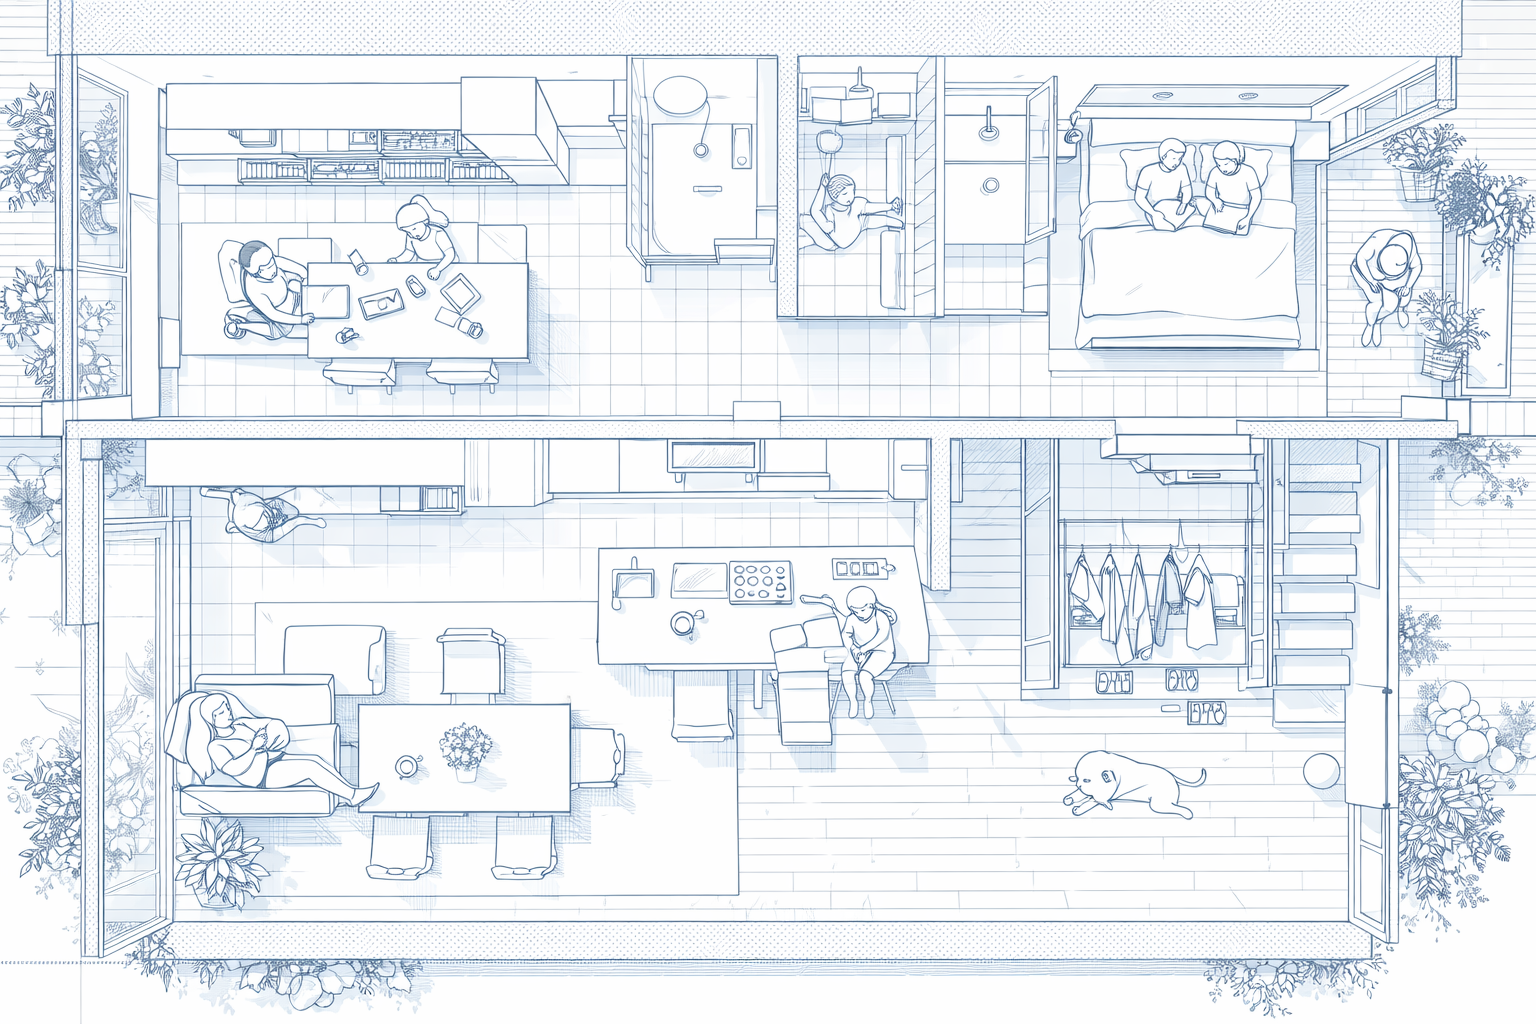
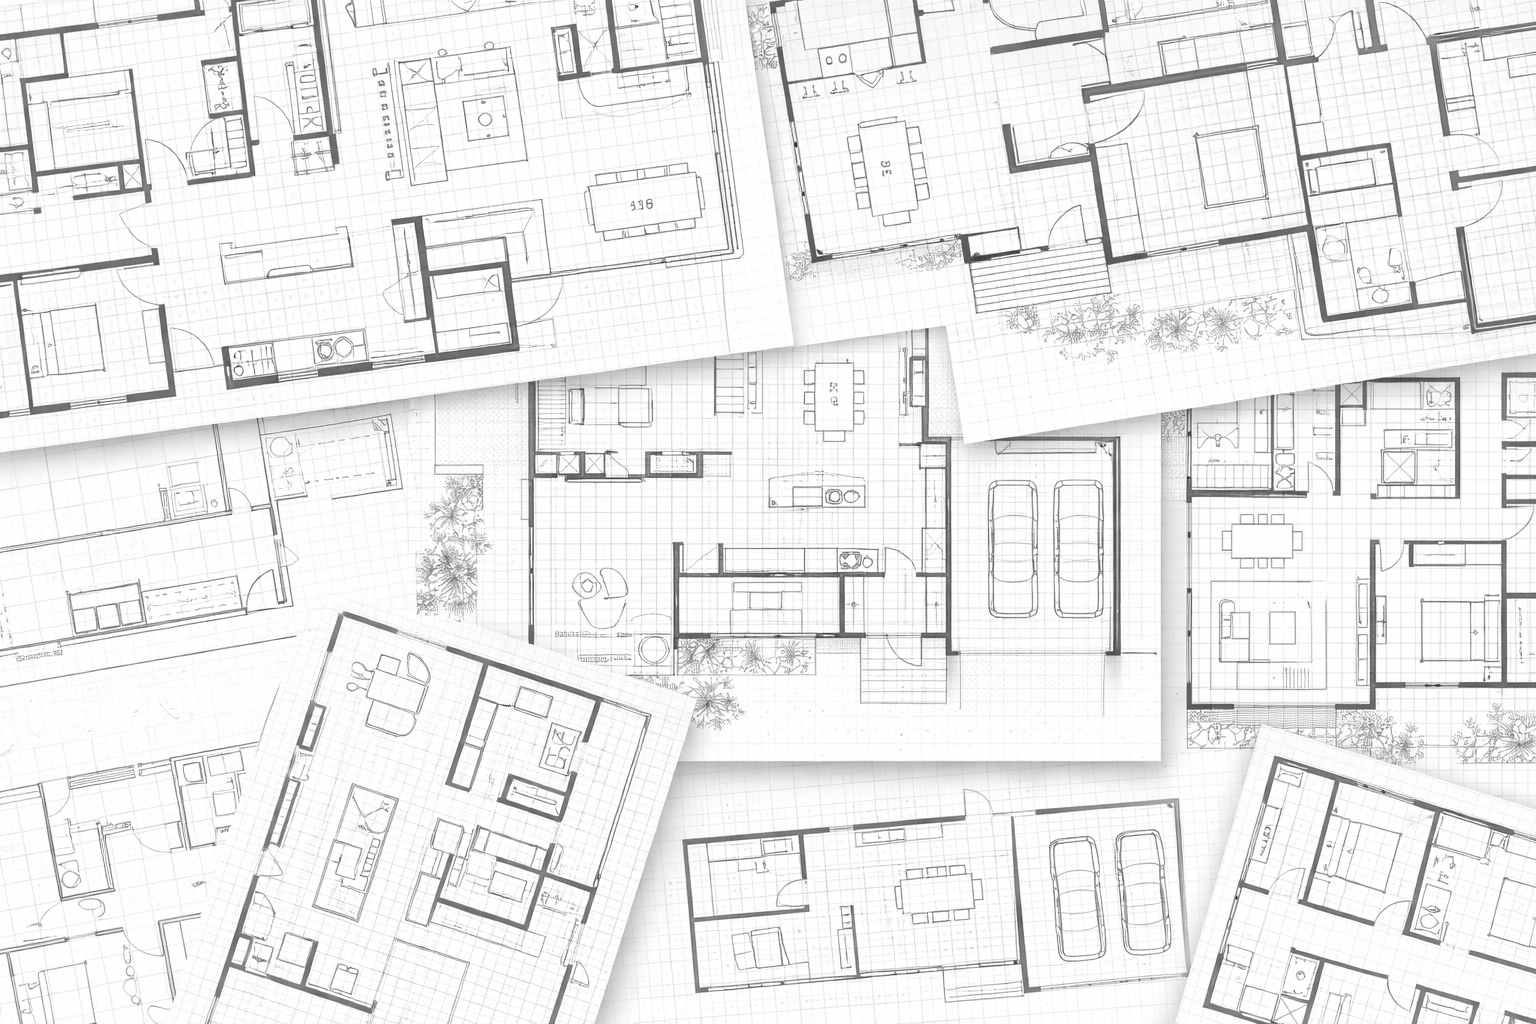
new typography and color palette

diff --git a/src/styles/base.css b/src/styles/base.css
@@ -1,10 +1,141 @@
+@import url("https://fonts.googleapis.com/css2?family=Montserrat:wght@400;500;600;700;800&display=swap");
 @import "tailwindcss";
-@import "@fontsource/inter/index.css";
 
 @theme {
-  --font-sans: "Inter", "Inter Variable", system-ui, -apple-system, BlinkMacSystemFont, "Segoe UI", sans-serif;
+  --font-sans: "Montserrat", system-ui, -apple-system, BlinkMacSystemFont, "Segoe UI", sans-serif;
+
+  /* Baltic Blue */
+  --color-baltic-blue-50: #ecf3f9;
+  --color-baltic-blue-100: #d9e7f2;
+  --color-baltic-blue-200: #b3cfe6;
+  --color-baltic-blue-300: #8cb6d9;
+  --color-baltic-blue-400: #669ecc;
+  --color-baltic-blue-500: #4086bf;
+  --color-baltic-blue-600: #336b99;
+  --color-baltic-blue-700: #265073;
+  --color-baltic-blue-800: #19364d;
+  --color-baltic-blue-900: #0d1b26;
+  --color-baltic-blue-950: #09131b;
+
+  /* Silver */
+  --color-silver-50: #f3f3f2;
+  --color-silver-100: #e6e6e5;
+  --color-silver-200: #cdcdcb;
+  --color-silver-300: #b4b4b1;
+  --color-silver-400: #9b9b97;
+  --color-silver-500: #82827d;
+  --color-silver-600: #686864;
+  --color-silver-700: #4e4e4b;
+  --color-silver-800: #343432;
+  --color-silver-900: #1a1a19;
+  --color-silver-950: #121211;
+
+  /* Charcoal Brown */
+  --color-charcoal-brown-50: #f1f4f0;
+  --color-charcoal-brown-100: #e3e9e2;
+  --color-charcoal-brown-200: #c7d4c4;
+  --color-charcoal-brown-300: #abbea7;
+  --color-charcoal-brown-400: #8fa88a;
+  --color-charcoal-brown-500: #73936c;
+  --color-charcoal-brown-600: #5c7557;
+  --color-charcoal-brown-700: #455841;
+  --color-charcoal-brown-800: #2e3b2b;
+  --color-charcoal-brown-900: #171d16;
+  --color-charcoal-brown-950: #10150f;
+
+  /* Deep Space Blue */
+  --color-deep-space-blue-50: #eef2f6;
+  --color-deep-space-blue-100: #dde6ee;
+  --color-deep-space-blue-200: #bbccdd;
+  --color-deep-space-blue-300: #99b2cc;
+  --color-deep-space-blue-400: #7799bb;
+  --color-deep-space-blue-500: #557faa;
+  --color-deep-space-blue-600: #446688;
+  --color-deep-space-blue-700: #334c66;
+  --color-deep-space-blue-800: #223344;
+  --color-deep-space-blue-900: #111922;
+  --color-deep-space-blue-950: #0c1218;
+
+  /* Grey Olive */
+  --color-grey-olive-50: #f4f3f1;
+  --color-grey-olive-100: #e8e6e3;
+  --color-grey-olive-200: #d2cdc6;
+  --color-grey-olive-300: #bbb4aa;
+  --color-grey-olive-400: #a49b8e;
+  --color-grey-olive-500: #8e8271;
+  --color-grey-olive-600: #71685b;
+  --color-grey-olive-700: #554e44;
+  --color-grey-olive-800: #39342d;
+  --color-grey-olive-900: #1c1a17;
+  --color-grey-olive-950: #141210;
+
+  /* Primary selection */
+  --color-primary: var(--color-charcoal-brown-600);
+  --color-primary-foreground: #ffffff;
 }
 
 :root {
   font-family: var(--font-sans);
+}
+
+html {
+  scroll-behavior: smooth;
+}
+
+@keyframes slide-in-left {
+  from {
+    opacity: 0;
+    transform: translateX(-32px);
+  }
+  to {
+    opacity: 1;
+    transform: translateX(0);
+  }
+}
+
+.animate-slide-in-left {
+  animation: slide-in-left 0.6s ease-out forwards;
+}
+
+@keyframes shimmer-border {
+  0% {
+    background-position: 0 0, 0 0;
+  }
+  100% {
+    background-position: 0 0, 200% 0;
+  }
+}
+
+.shimmer-border {
+  position: relative;
+  border: 2px solid transparent;
+  background-image:
+    linear-gradient(#ffffff, #ffffff),
+    linear-gradient(120deg, var(--color-baltic-blue-50), var(--color-baltic-blue-500), #ffffff);
+  background-origin: padding-box, border-box;
+  background-clip: padding-box, border-box;
+  background-size: auto, 200% 200%;
+  transition: box-shadow 0.3s ease;
+}
+
+.shimmer-border:hover {
+  animation: shimmer-border 1.2s linear infinite;
+  box-shadow: 0 6px 20px rgba(0, 0, 0, 0.12);
+}
+
+.shimmer-border-white {
+  position: relative;
+  border: 2px solid transparent;
+  background-image:
+    linear-gradient(var(--color-charcoal-brown-600), var(--color-charcoal-brown-600)),
+    linear-gradient(120deg, #ffffff, var(--color-charcoal-brown-200), #ffffff);
+  background-origin: padding-box, border-box;
+  background-clip: padding-box, border-box;
+  background-size: auto, 200% 200%;
+  transition: box-shadow 0.3s ease;
+}
+
+.shimmer-border-white:hover {
+  animation: shimmer-border 1.2s linear infinite;
+  box-shadow: 0 10px 24px rgba(0, 0, 0, 0.2);
 }

diff --git a/src/components/subcomponents/HeroSection.tsx b/src/components/subcomponents/HeroSection.tsx
@@ -1,47 +1,72 @@
 import { Button } from "antd";
+import heroBg from "../../img/SSDAY.jpeg";
 
 export default function HeroSection() {
   return (
-    <section className="w-full bg-slate-300 rounded-b-[2rem] px-4 pt-20 pb-24">
-      <div className="mx-auto max-w-6xl flex flex-col items-center text-center gap-10">
+    <section
+      className="
+        relative w-full rounded-b-[2rem] px-4 pt-36 pb-36
+        bg-cover bg-center text-black
+        flex flex-col items-center justify-center
+        min-h-[80vh]
+      "
+      style={{ backgroundImage: `url(${heroBg})` }}
+    >
+      <div className="absolute inset-0 bg-white/70" aria-hidden />
+
+      <div className="relative mx-auto max-w-6xl flex flex-col items-center text-center gap-10">
         
         {/* Headline */}
-        <h1 className="font-extrabold tracking-tight text-black leading-tight
-                       text-4xl sm:text-5xl md:text-6xl">
-          Construye <span className="block sm:inline">en El Salvador</span>
+        <h1 className="tracking-tight text-black leading-tight flex flex-col items-center gap-3">
+          <span className="flex items-baseline gap-3 text-6xl sm:text-6xl md:text-8xl">
+            <span className="font-extrabold">Construye</span>
+            <span className="text-2xl sm:text-3xl md:text-4xl font-normal italic">en</span>
+          </span>
+          <span className="block text-5xl sm:text-6xl md:text-9xl font-extrabold">El Salvador</span>
         </h1>
 
         {/* Sub-brand */}
-        <span className="text-sm text-black/70 tracking-wide">
+        <span className="text-lg text-black tracking-wide italic">
           by hv
         </span>
 
         {/* Tagline */}
-        <p className="max-w-md text-base sm:text-lg text-black/80">
-          catchy phrase
+        <p
+          className="
+            text-base sm:text-lg text-black font-semibold whitespace-nowrap
+            bg-white px-4 py-2 rounded-full shadow-sm
+          "
+        >
+          Haz realidad tus ideas en el corazón de Centroamérica
         </p>
 
-        {/* CTA */}
-        <div className="w-full flex justify-center">
+      </div>
+
+      {/* CTA pinned to bottom border */}
+      <div
+        className="
+          absolute left-1/2 bottom-0 translate-x-[-50%] translate-y-1/2
+          z-20 flex justify-center
+        "
+      >
+        <a href="#contact">
           <Button
             type="primary"
             size="large"
             className="
-              !bg-red-800
+              !bg-charcoal-brown-600
               !border-none
               !rounded-full
               !px-10
-              !h-14
-              text-base
-              font-semibold
-              shadow-lg
-              hover:!bg-red-700
+              !h-14 !min-w-[260px]
+              text-base font-semibold !text-white
+              shadow-lg shadow-black/30 shimmer-border-white
+              hover:!bg-charcoal-brown-700
             "
           >
             the “start now” thingy
           </Button>
-        </div>
-
+        </a>
       </div>
     </section>
   );

diff --git a/src/components/subcomponents/LeadFormSection.tsx b/src/components/subcomponents/LeadFormSection.tsx
@@ -1,7 +1,35 @@
+import { useEffect, useRef, useState } from "react";
 import LeadFormStepper from "./LeadFormStepper";
 import formBg from "../../img/formbg.png";
 
 export default function LeadFormSection() {
+  const cardRef = useRef<HTMLDivElement | null>(null);
+  const [visible, setVisible] = useState(false);
+
+  useEffect(() => {
+    const el = cardRef.current;
+    if (!el) return;
+
+    const observer = new IntersectionObserver(
+      (entries) => {
+        entries.forEach((entry) => {
+          if (entry.isIntersecting) {
+            setVisible(true);
+            observer.disconnect();
+          }
+        });
+      },
+      {
+        root: null,
+        threshold: 0.25,
+        rootMargin: "0px 0px -10% 0px",
+      }
+    );
+
+    observer.observe(el);
+    return () => observer.disconnect();
+  }, []);
+
   return (
     <section
       id="contact"
@@ -16,7 +44,14 @@ export default function LeadFormSection() {
       "
       style={{ backgroundImage: `url(${formBg})` }}
     >
-      <div className="mx-auto max-w-3xl">
+      <div
+        ref={cardRef}
+        className={`
+          mx-auto max-w-3xl
+          transform-gpu transition-all duration-700 ease-[cubic-bezier(0.22,1,0.36,1)]
+          ${visible ? "translate-y-0 opacity-100" : "translate-y-16 opacity-0"}
+        `}
+      >
         <LeadFormStepper />
       </div>
     </section>

diff --git a/src/components/subcomponents/FeaturesSection.tsx b/src/components/subcomponents/FeaturesSection.tsx
@@ -33,11 +33,12 @@ export default function FeaturesSection() {
             md:grid-cols-3
           "
         >
-          {FEATURES.map((feature) => (
+          {FEATURES.map((feature, index) => (
             <FeatureCard
               key={feature.title}
               title={feature.title}
               description={feature.description}
+              index={index}
             />
           ))}
         </div>
@@ -46,9 +47,9 @@ export default function FeaturesSection() {
   );
 }
 
-type FeatureCardProps = Feature;
+type FeatureCardProps = Feature & { index: number };
 
-function FeatureCard({ title, description }: FeatureCardProps) {
+function FeatureCard({ title, description, index }: FeatureCardProps) {
   return (
     <div
       className="
@@ -62,7 +63,9 @@ function FeatureCard({ title, description }: FeatureCardProps) {
         transition
         duration-300
         hover:-translate-y-1
+        animate-slide-in-left
       "
+      style={{ animationDelay: `${index * 120}ms` }}
     >
       {/* Animated border */}
       <span
@@ -75,7 +78,7 @@ function FeatureCard({ title, description }: FeatureCardProps) {
           border-transparent
           transition-all
           duration-300
-          group-hover:border-red-700
+          group-hover:border-charcoal-brown-600
         "
       />
 

diff --git a/src/components/subcomponents/LeadFormStepper.tsx b/src/components/subcomponents/LeadFormStepper.tsx
@@ -104,12 +104,18 @@ const LeadFormStepper = () => {
   };
 
   return (
-    <div className="rounded-3xl bg-white p-6 shadow-xl sm:p-10">
+    <div
+      className="
+        rounded-3xl bg-white p-6 shadow-xl sm:p-10
+        transform-gpu transition-transform duration-300 ease-out
+        translate-y-2
+      "
+    >
       {contextHolder}
 
       {/* Header */}
       <div className="mb-8 text-center">
-        <p className="mb-2 text-xs uppercase tracking-widest text-red-700">
+        <p className="mb-2 text-xs uppercase tracking-widest text-charcoal-brown-600">
           {t('form.eyebrow')}
         </p>
 
@@ -235,8 +241,8 @@ const LeadFormStepper = () => {
                 h-12
                 rounded-full
                 px-8
-                !bg-red-800
-                hover:!bg-red-700
+                !bg-charcoal-brown-600
+                hover:!bg-charcoal-brown-700
               "
             >
               {t('form.buttons.submit')}
@@ -244,10 +250,6 @@ const LeadFormStepper = () => {
           </div>
         </div>
       </Form>
-
-      <p className="mt-6 text-center text-xs text-black/50">
-        {t('form.privacy')}
-      </p>
     </div>
   );
 };

diff --git a/src/lib/i18n.ts b/src/lib/i18n.ts
@@ -9,6 +9,7 @@ i18n
   .use(LanguageDetector)
   .use(initReactI18next)
   .init({
+    lng: 'es',
     detection: {
       order: ['localStorage', 'navigator', 'htmlTag'],
       caches: ['localStorage'],
@@ -18,7 +19,7 @@ i18n
       en: { common: enCommon },
       es: { common: esCommon }
     },
-    fallbackLng: 'en',
+    fallbackLng: 'es',
     interpolation: {
       escapeValue: false
     },
